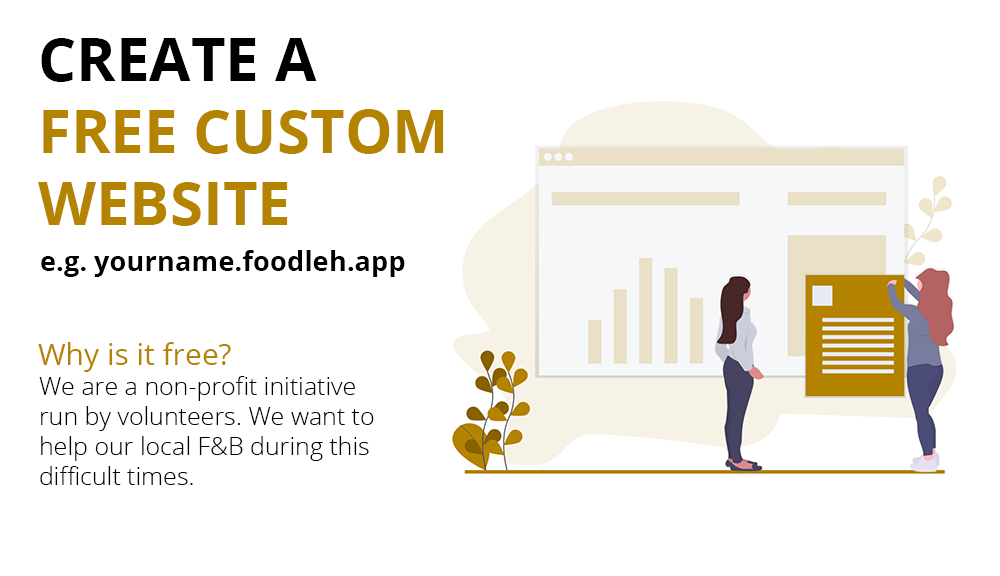
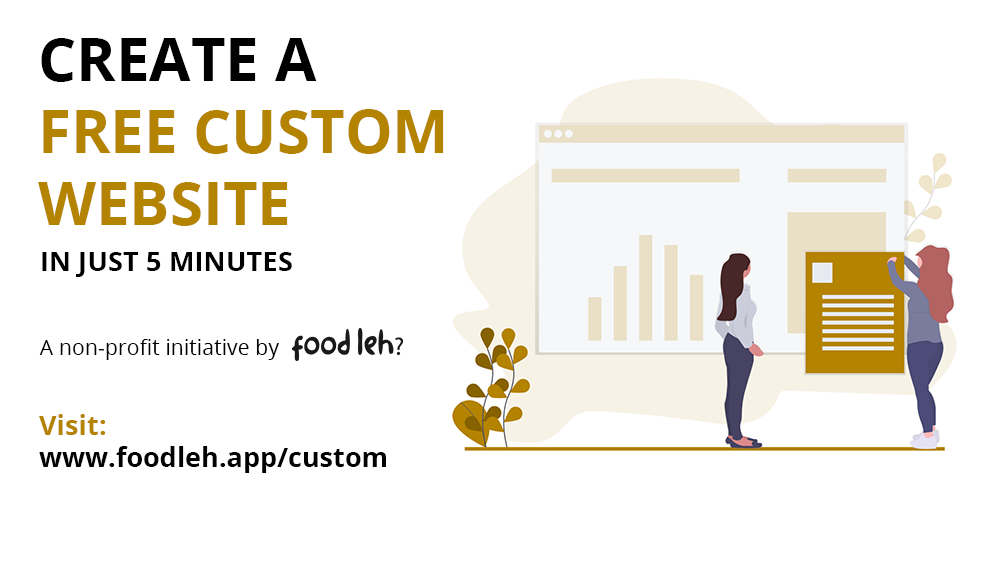
feat(custom): added new infographic

diff --git a/src/Components/ListForm.js b/src/Components/ListForm.js
@@ -21,6 +21,7 @@ import DialogActions from "@material-ui/core/DialogActions";
 import DialogContent from "@material-ui/core/DialogContent";
 import DialogContentText from "@material-ui/core/DialogContentText";
 import DialogTitle from "@material-ui/core/DialogTitle";
+import custom from "../assets/custom.png";
 
 // const API_KEY = `${process.env.REACT_APP_GKEY}`
 
@@ -1001,12 +1002,7 @@ export class ListForm extends React.Component {
               {"Listing Successfully Created! "}
             </DialogTitle>
             <DialogContent>
-              <DialogContentText id="alert-dialog-description">
-                Your listing can be found here:{" "}
-                <a href={"/info?id=" + this.state.newId} target="blank">
-                  www.foodleh.app/info?id={this.state.newId}
-                </a>
-              </DialogContentText>
+              <img src={custom} style={{ width: "100%" }} alt="header" />
               <DialogContentText id="alert-dialog-description">
                 Do you want a free custom website? (e.g. yourname.foodleh.app){" "}
                 <b>
@@ -1016,6 +1012,18 @@ export class ListForm extends React.Component {
                   </a>{" "}
                   to get one in 5 minutes!
                 </b>
+              </DialogContentText>
+
+              <DialogContentText id="alert-dialog-description">
+                <h5>
+                  <b>
+                    {" "}
+                    Your listing can be found here:{" "}
+                    <a href={"/info?id=" + this.state.newId} target="blank">
+                      www.foodleh.app/info?id={this.state.newId}
+                    </a>
+                  </b>
+                </h5>
               </DialogContentText>
             </DialogContent>
             <DialogActions>
